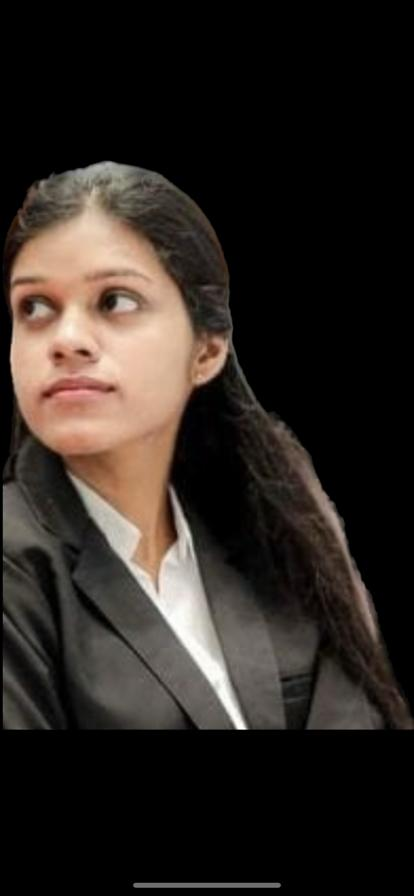
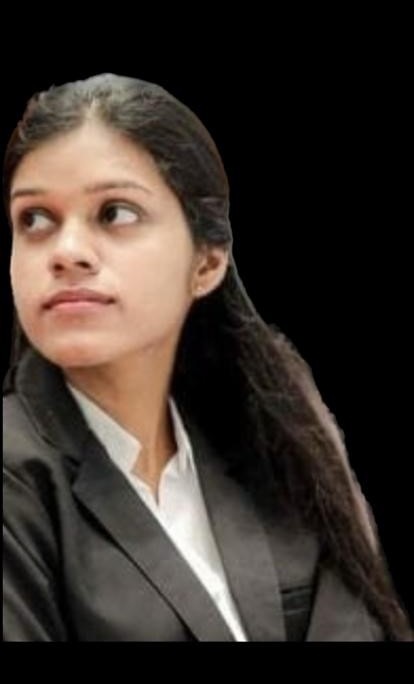
add detail

diff --git a/index.html b/index.html
@@ -303,12 +303,12 @@
 
         <div></div>
 
-        <img id="Project1" src="assests/images/HSC5.png">
+        <img id="Project1" src="assests/images/HSC5New.png">
         <img id="Project2" src="assests/images/pharmacy.png">
         <img id="Project3" src="assests/images/HS1.png">
 
-        <img id="LeftArrow" src="assests/images/LeftArrow.png">
-        <img id="RightArrow" src="assests/images/RightArrow.png">
+<!--        <img id="LeftArrow" src="assests/images/LeftArrow.png">-->
+<!--        <img id="RightArrow" src="assests/images/RightArrow.png">-->
 
         <h7><a href="AssignmentPage1.html" target="_self" style="color: white">Project & Assignment</a></h7>
 

diff --git a/assests/css/Laptop1/project.css b/assests/css/Laptop1/project.css
@@ -60,7 +60,7 @@ section:nth-child(7)>img:hover{
     box-shadow:   #434d56 0px 4px 12px;
     position: absolute;
     top: 45vh;
-    left: -8vw;
+    left: -3vw;
     margin: auto;
 
     opacity: 90%;
@@ -74,7 +74,7 @@ section:nth-child(7)>img:hover{
     box-shadow:   #434d56 0px 4px 12px;
     position: absolute;
     top: 45vh;
-    right: -10vw;
+    right: -8vw;
     margin: auto;
 
     opacity: 80%;

diff --git a/AssignmentPage1.html b/AssignmentPage1.html
@@ -340,7 +340,7 @@
     <div id="box6">
 
         <h4>Shop</h4>
-        <h7><a href="" style="color: white">View</a></h7>
+        <h7><a href="https://github.com/MoviniGayaraa/Thogakade-Hibernate-.git" style="color: white">View</a></h7>
 
     </div>
 

diff --git a/assests/css/Laptop1/Home.css b/assests/css/Laptop1/Home.css
@@ -115,7 +115,8 @@ section:nth-child(1)>div>img:hover{
     position: absolute;
     height: 84%;
     /*height: 75%;*/
-    width: 26%;
+
+     width: 26%;
     padding-right: 13.33vw;
     padding-top: 10vh;
 
